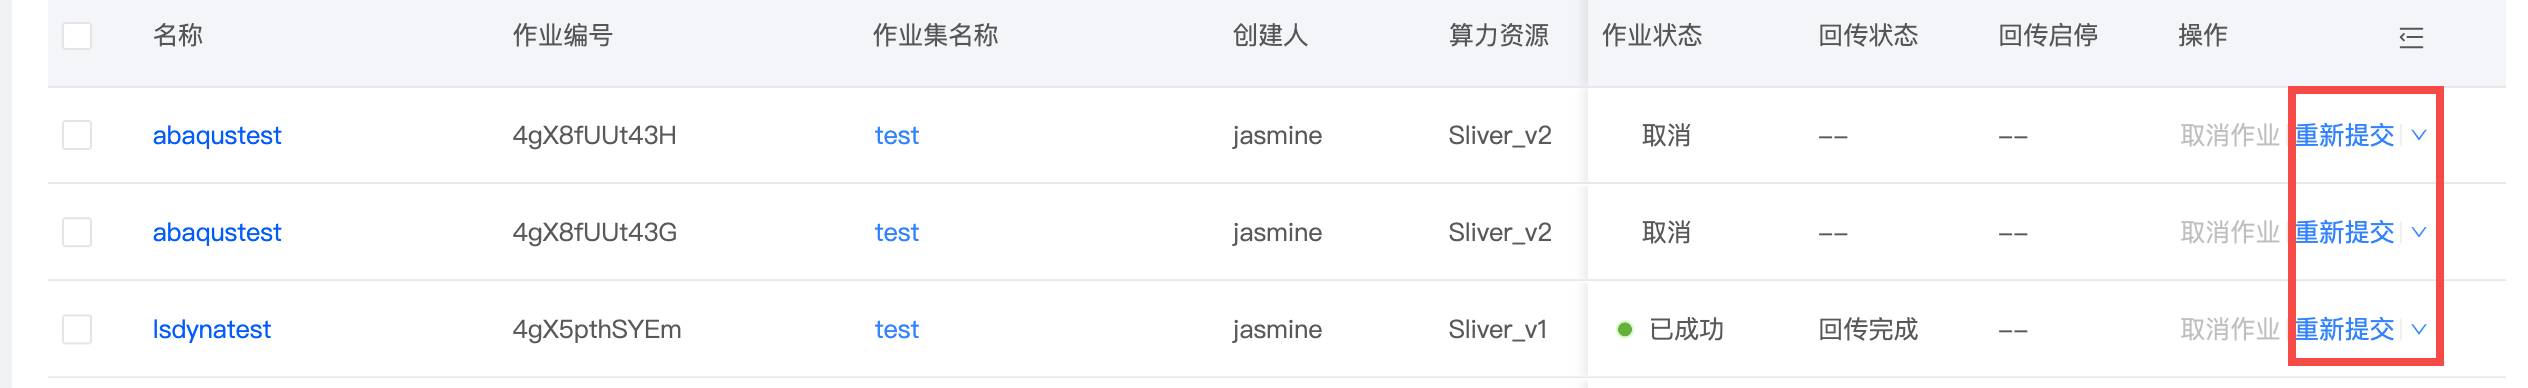
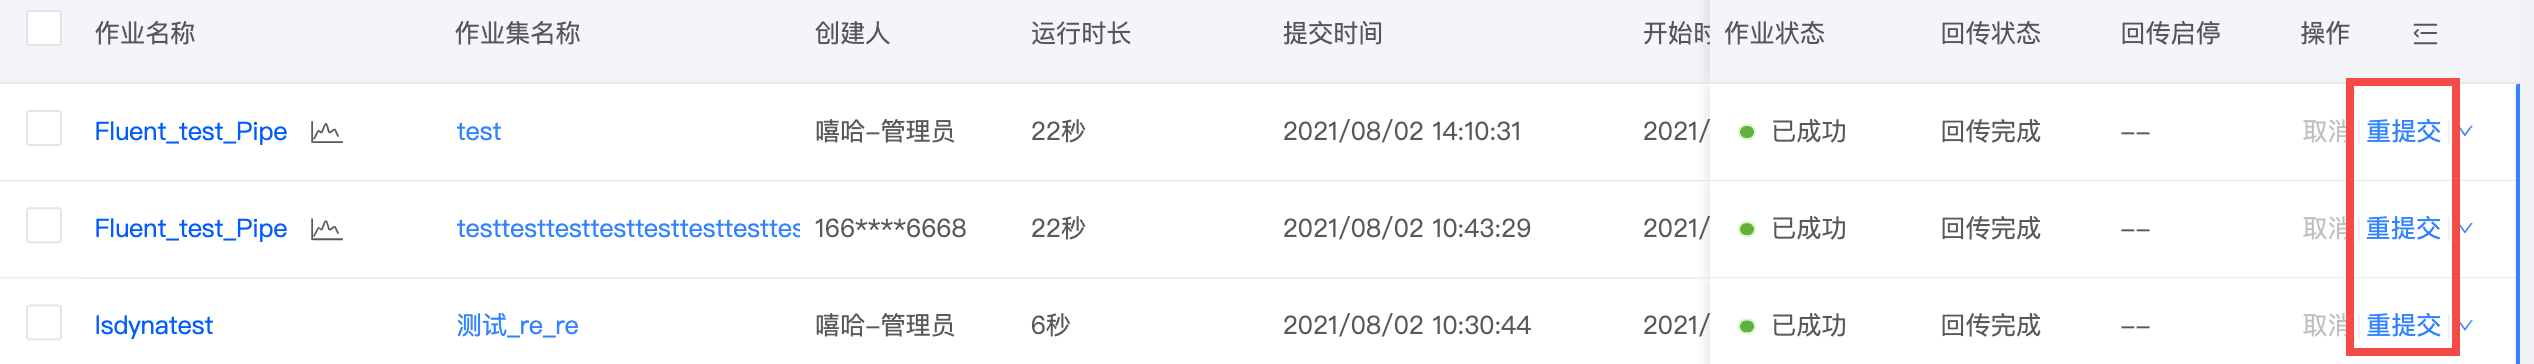
update jobmanagement

diff --git a/src/kaiwu-handbook/docs/jobManagement.md b/src/kaiwu-handbook/docs/jobManagement.md
@@ -15,13 +15,13 @@ sidebar_label: 作业管理
 
 ## 管理作业
 
-### 作业重新提交
-![作业管理-重新提交](/img/jobmanagement01.png)
+### 作业重提交
+![作业管理-重提交](/img/jobmanagement01.png)
 
 ******************************************** 
 
 ### 下载作业
-下载作业结果，可下载到本地或我的文件。注意，账户欠费后无法下载。
+下载作业结果，可下载到本地或文件管理。
 ![作业管理-下载作业](/img/jobmanagement05.png)
 
 ******************************************** 
@@ -57,37 +57,54 @@ sidebar_label: 作业管理
 &nbsp;  
 ********************************************  
 
-## 在线查看作业
+## 查看作业详情
 
-### 点击作业名
 点击作业名称，进入作业详情页，查看作业详细信息。
-![Logo](/img/jobmanagement04.png)
+![作业管理](/img/jobmanagement04.png)
 ******************************************** 
 
-####  基本信息
+###  作业信息
 
-作业基本信息包括：作业名称、使用应用、创建人、作业状态、算力资源等。
-![Logo](/img/jobmanagement08.png)
-
-******************************************** 
-
-#### 文件列表信息
-
-输出文件列表信息按照“全部、结果、模型、日志、中间文件、其他”进行分类。勾选所需要的作业文件，点击”下载“按钮，即可进行下载。注意，账户欠费后无法下载。
-![Logo](/img/jobmanagement09.png)
+作业信息包括：作业集名称、作业状态、使用的软件、创建人、运行时长、使用的硬件资源等信息。
+![作业管理](/img/jobmanagement08.png)
 
 ******************************************** 
 
-### 点击作业结果文件名
-点击作业结果文件的名称，可在线查看文件内容。
-![作业管理-结果文件](/img/jobmanagement10.png)
-&nbsp;  
-点击log文件，可在作业运行过程中，实时查看日志更新
+### 作业监控
+
+在监控中，可以实时查看作业运行情况和进度。
+
+同时，可以通过「残差图」，提前预测作业的运行情况。
+![作业管理](/img/jobmanagement16.png)
 
 ******************************************** 
 
-### 点击作业集名
-点击作业集名称，可以快速查看批量化提交的作业列表。
-![作业管理-点击作业集](/img/jobmanagement02.png)
+
+### 作业结果
+
+点击结果文件名，可以在右侧查看文件内容。
+
+![作业管理](/img/jobmanagement21.png)
+
+点击log文件，可在作业运行过程中，实时查看日志更新。
+
+********************************************
+
+筛选：支持按照文件的类型进行筛选；支持按照文件/文件夹名称进行筛选。
+
+![作业管理](/img/jobmanagement17.png)
+
+********************************************
+
+下载到本地：作业结果支持单个文件下载和批量下载。
+
+![作业管理](/img/jobmanagement18.png)
+
+********************************************
+下载到文件管理：通过打开文件管理的开关，移动到文件管理的相对应文件夹中。
+
+![作业管理](/img/jobmanagement19.png)
+![作业管理](/img/jobmanagement20.png)
+
 
 
